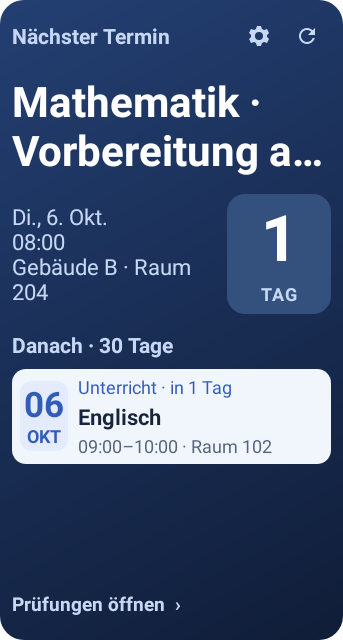
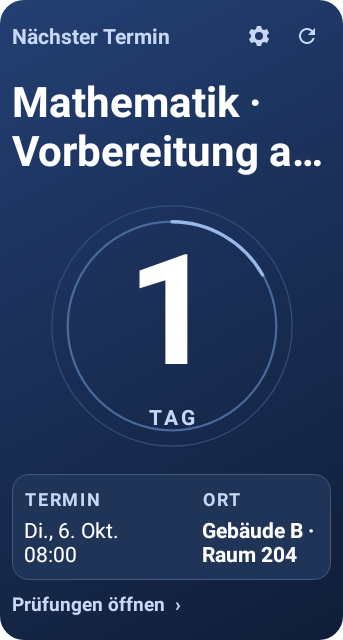
design: focus next-event widget and respect launcher orientation

Changed region(s): [[0.0292, 0.2812, 0.9621, 0.9062], [0.0292, 0.3125, 0.3499, 0.4688]]

diff --git a/app/src/test/java/com/andrin/examcountdown/widget/WidgetNativeTest.kt b/app/src/test/java/com/andrin/examcountdown/widget/WidgetNativeTest.kt
@@ -52,6 +52,10 @@ class WidgetNativeTest {
         val views = if (list) WidgetPresentation.list(context, 42, config, content, options(height, width), now)
         else WidgetPresentation.next(context, 42, config, content.firstOrNull(), options(height, width), now, content.drop(1))
         val view = views.apply(context, FrameLayout(context))
+        return measure(view, height, width)
+    }
+
+    private fun measure(view: View, height: Int, width: Int): View {
         val density = context.resources.displayMetrics.density
         view.measure(View.MeasureSpec.makeMeasureSpec((width * density).toInt(), View.MeasureSpec.EXACTLY),
             View.MeasureSpec.makeMeasureSpec((height * density).toInt(), View.MeasureSpec.EXACTLY))
@@ -189,21 +193,37 @@ class WidgetNativeTest {
         root.offsetDescendantRectToMyCoords(child, it)
     }
 
-    @Test fun tallNextWidgetPlacesFocusAtTopAndShowsRealFollowingEntriesInBothThemes() {
+    @Test fun tallNextWidgetShowsLargeCountdownAndSeparatesTimeAndLocationInBothThemes() {
         for (dark in listOf(false, true)) {
             RuntimeEnvironment.setQualifiers("w411dp-h891dp" + (if (dark) "-night" else "-notnight") + "-mdpi")
             val view = render(false, 600, 343) as ViewGroup
             val title = view.findViewById<TextView>(R.id.nextExamTitle)
             assertTrue("Focus still floats in the middle", bounds(view, title).top < 150)
             val rows = view.findViewById<ViewGroup>(R.id.nextUpcomingRows)
-            assertEquals(3, rows.childCount)
-            assertEquals("Englisch", rows.getChildAt(0).findViewById<TextView>(R.id.widgetRowTitle).text.toString())
-            assertEquals("Projektabgabe", rows.getChildAt(1).findViewById<TextView>(R.id.widgetRowTitle).text.toString())
-            assertEquals("Geschichte · Europa", rows.getChildAt(2).findViewById<TextView>(R.id.widgetRowTitle).text.toString())
-            assertTrue(bounds(view, rows.getChildAt(2)).bottom <= bounds(view, view.findViewById(R.id.nextWidgetOpenTimetable)).top)
-            rows.getChildAt(0).performClick()
-            assertEquals("timetable", shadowOf(RuntimeEnvironment.getApplication()).nextStartedActivity.getStringExtra(MainActivity.EXTRA_OPEN_TAB))
+            assertEquals(0, rows.childCount)
+            assertEquals(View.GONE, view.findViewById<View>(R.id.nextUpcomingArea).visibility)
+            val countdown = view.findViewById<TextView>(R.id.nextExamCountdown)
+            assertTrue("Countdown is still a small badge", countdown.textSize >= 80 * context.resources.displayMetrics.density)
+            assertTrue("Countdown clipped", countdown.layout.height <= countdown.height)
+            val unit = view.findViewById<TextView>(R.id.nextCountdownUnit)
+            assertEquals("TAG", unit.text.toString())
+            assertTrue("Countdown unit has no drawable height: ${unit.height}/${unit.layout?.height}, ${bounds(view, unit)}", unit.height > 0 && unit.height >= unit.layout.height)
+            assertTrue(bounds(view, unit).top >= bounds(view, countdown).bottom)
+            assertTrue(bounds(view, unit).bottom <= bounds(view, view.findViewById(R.id.nextCountdownBox)).bottom)
+            assertTrue(bounds(view, countdown).bottom <= bounds(view, view.findViewById(R.id.nextDetailsPanel)).top)
+            assertEquals("Raum 204", view.findViewById<TextView>(R.id.nextExamLocation).text.toString())
+            assertFalse(view.findViewById<TextView>(R.id.nextExamTime).text.contains("204"))
             screenshot(view, "widget-next-tall-${if (dark) "dark" else "light"}")
+            val extraTall = render(false, 800, 343) as ViewGroup
+            val extraRows = extraTall.findViewById<ViewGroup>(R.id.nextUpcomingRows)
+            assertEquals(3, extraRows.childCount)
+            assertEquals("Englisch", extraRows.getChildAt(0).findViewById<TextView>(R.id.widgetRowTitle).text.toString())
+            assertEquals("Projektabgabe", extraRows.getChildAt(1).findViewById<TextView>(R.id.widgetRowTitle).text.toString())
+            assertEquals("Geschichte · Europa", extraRows.getChildAt(2).findViewById<TextView>(R.id.widgetRowTitle).text.toString())
+            assertTrue(bounds(extraTall, extraRows.getChildAt(2)).bottom <= bounds(extraTall, extraTall.findViewById(R.id.nextWidgetOpenTimetable)).top)
+            extraRows.getChildAt(0).performClick()
+            assertEquals("timetable", shadowOf(RuntimeEnvironment.getApplication()).nextStartedActivity.getStringExtra(MainActivity.EXTRA_OPEN_TAB))
+            screenshot(extraTall, "widget-next-extra-tall-${if (dark) "dark" else "light"}")
         }
     }
 
@@ -228,7 +248,7 @@ class WidgetNativeTest {
             }
             screenshot(render(false, 640, 343, data = longItems), "widget-next-tall-font-${scale.toString().replace('.', '-')}")
         }
-        val room = render(false, 640, 343, data = longItems).findViewById<TextView>(R.id.nextExamTime)
+        val room = render(false, 640, 343, data = longItems).findViewById<TextView>(R.id.nextExamLocation)
         assertEquals("The large-font room text is truncated", 0, room.layout.getEllipsisCount(room.layout.lineCount - 1))
         assertTrue(room.text.contains("Raum 204"))
         assertNull(render(false, 600, 220).findViewById<View>(R.id.nextUpcomingRows))
@@ -243,14 +263,44 @@ class WidgetNativeTest {
         empty.performClick()
         assertEquals("events", shadowOf(RuntimeEnvironment.getApplication()).nextStartedActivity.getStringExtra(MainActivity.EXTRA_OPEN_TAB))
         screenshot(empty, "widget-next-tall-empty")
-        val single = render(false, 600, data = items.take(1))
+        val single = render(false, 800, data = items.take(1))
         assertEquals(View.VISIBLE, single.findViewById<View>(R.id.nextUpcomingEmpty).visibility)
         screenshot(single, "widget-next-tall-single")
         val hidden = render(false, 600, config = WidgetConfig(WidgetMode.AGENDA, showLocation = false, showCountdown = false))
         assertFalse(hidden.findViewById<TextView>(R.id.nextExamTime).text.contains("204"))
+        assertEquals(View.GONE, hidden.findViewById<View>(R.id.nextLocationSection).visibility)
         assertEquals(View.GONE, hidden.findViewById<View>(R.id.nextCountdownBox).visibility)
-        val rows = hidden.findViewById<ViewGroup>(R.id.nextUpcomingRows)
+        val extraTallHidden = render(false, 800, config = WidgetConfig(WidgetMode.AGENDA, showLocation = false, showCountdown = false))
+        val rows = extraTallHidden.findViewById<ViewGroup>(R.id.nextUpcomingRows)
         assertFalse(rows.getChildAt(0).findViewById<TextView>(R.id.widgetRowDetails).text.contains("102"))
         assertFalse(rows.getChildAt(0).findViewById<TextView>(R.id.widgetRowKind).text.contains("in "))
+    }
+
+    @Test fun launcherUsesActualPortraitHeightWhenMinimumHeightBelongsToLandscape() {
+        val options = Bundle().apply {
+            putInt(AppWidgetManager.OPTION_APPWIDGET_MIN_HEIGHT, 240)
+            putInt(AppWidgetManager.OPTION_APPWIDGET_MAX_HEIGHT, 600)
+            putInt(AppWidgetManager.OPTION_APPWIDGET_MIN_WIDTH, 343)
+            putInt(AppWidgetManager.OPTION_APPWIDGET_MAX_WIDTH, 600)
+        }
+        val example = items.first().copy(startsAtEpochMillis = now + 8 * 86_400_000L, endsAtEpochMillis = now + 8 * 86_400_000L)
+        val views = WidgetPresentation.nextForLauncher(context, 42, WidgetConfig(WidgetMode.AGENDA), listOf(example), options, now)
+        for (portrait in listOf(true, false)) {
+            val configuration = android.content.res.Configuration(context.resources.configuration).apply {
+                orientation = if (portrait) android.content.res.Configuration.ORIENTATION_PORTRAIT else android.content.res.Configuration.ORIENTATION_LANDSCAPE
+            }
+            val oriented = context.createConfigurationContext(configuration)
+            val view = measure(views.apply(oriented, FrameLayout(oriented)), if (portrait) 600 else 240, if (portrait) 343 else 600) as ViewGroup
+            assertEquals("Mathematik · Funktionen", view.findViewById<TextView>(R.id.nextExamTitle).text.toString())
+            assertEquals(portrait, view.findViewById<View>(R.id.nextFocusPoster) != null)
+            val counter = view.findViewById<TextView>(R.id.nextExamCountdown)
+            assertEquals("8", counter.text.toString())
+            assertEquals("TAGE", view.findViewById<TextView>(R.id.nextCountdownUnit).text.toString())
+            assertTrue(bounds(view, counter).bottom <= bounds(view, view.findViewById(R.id.nextWidgetOpenTimetable)).top)
+            assertTrue("Counter clipped after orientation change", counter.layout.height <= counter.height)
+            screenshot(view, "widget-next-launcher-${if (portrait) "portrait" else "landscape"}")
+            view.findViewById<View>(R.id.nextWidgetConfigure).performClick()
+            assertEquals(42, shadowOf(RuntimeEnvironment.getApplication()).nextStartedActivity.getIntExtra(AppWidgetManager.EXTRA_APPWIDGET_ID, -1))
+        }
     }
 }

diff --git a/app/src/main/java/com/andrin/examcountdown/widget/WidgetPresentation.kt b/app/src/main/java/com/andrin/examcountdown/widget/WidgetPresentation.kt
@@ -83,13 +83,37 @@ internal fun useTallNextWidget(options: Bundle, config: WidgetConfig, fontScale:
     !config.compact && options.getInt(AppWidgetManager.OPTION_APPWIDGET_MIN_WIDTH, 320) >= 260 &&
         widgetHeight(options, 240) >= 360 * fontScale.coerceAtLeast(1f)
 
-/** Leave room for two title lines, date/time/room, countdown, controls and footer. */
+/** Keep the next entry prominent; following rows only use space beyond the focus panel. */
 internal fun nextWidgetRowLimit(options: Bundle, config: WidgetConfig, fontScale: Float): Int =
     if (!useTallNextWidget(options, config, fontScale)) 0 else
-        ((widgetHeight(options, 240) - (220 * fontScale.coerceAtLeast(1f)).toInt() - 110) /
+        ((widgetHeight(options, 240) - (360 * fontScale.coerceAtLeast(1f)).toInt() - 200) /
             widgetRowHeight(false, fontScale)).coerceIn(0, 5)
 
+internal fun nextWidgetOrientations(options: Bundle): Pair<Bundle, Bundle> {
+    val minHeight = widgetHeight(options, 240)
+    val maxHeight = options.getInt(AppWidgetManager.OPTION_APPWIDGET_MAX_HEIGHT, minHeight).coerceAtLeast(minHeight)
+    val minWidth = options.getInt(AppWidgetManager.OPTION_APPWIDGET_MIN_WIDTH, 320).takeIf { it > 0 } ?: 320
+    val maxWidth = options.getInt(AppWidgetManager.OPTION_APPWIDGET_MAX_WIDTH, minWidth).coerceAtLeast(minWidth)
+    val landscape = Bundle(options).apply {
+        putInt(AppWidgetManager.OPTION_APPWIDGET_MIN_HEIGHT, minHeight)
+        putInt(AppWidgetManager.OPTION_APPWIDGET_MIN_WIDTH, maxWidth)
+    }
+    val portrait = Bundle(options).apply {
+        putInt(AppWidgetManager.OPTION_APPWIDGET_MIN_HEIGHT, maxHeight)
+        putInt(AppWidgetManager.OPTION_APPWIDGET_MIN_WIDTH, minWidth)
+    }
+    return landscape to portrait
+}
+
 internal object WidgetPresentation {
+    fun nextForLauncher(context: Context, id: Int, config: WidgetConfig, items: List<WidgetTimelineItem>, options: Bundle, now: Long): RemoteViews {
+        val (landscape, portrait) = nextWidgetOrientations(options)
+        return RemoteViews(
+            next(context, id, config, items.firstOrNull(), landscape, now, items.drop(1)),
+            next(context, id, config, items.firstOrNull(), portrait, now, items.drop(1))
+        )
+    }
+
     fun next(context: Context, id: Int, config: WidgetConfig, item: WidgetTimelineItem?, options: Bundle, now: Long,
              following: List<WidgetTimelineItem> = emptyList()): RemoteViews {
         val height = widgetHeight(options, 240)
@@ -109,11 +133,15 @@ internal object WidgetPresentation {
             if (tall) {
                 val date = DateTimeFormatter.ofPattern("EEE, d. MMM", Locale.GERMANY)
                     .format(Instant.ofEpochMilli(it.startsAtEpochMillis).atZone(widgetZone))
-                listOfNotNull(date, widgetTimeDetails(it, config.copy(showLocation = false)),
-                    it.location?.trim()?.takeIf { location -> config.showLocation && location.isNotEmpty() }).joinToString("\n")
+                listOf(date, widgetTimeDetails(it, config.copy(showLocation = false))).joinToString("\n")
             } else widgetDetails(it, config)
         } ?: "App öffnen · Zeitraum oder Kalender prüfen")
         views.setInt(R.id.nextExamTime, "setMaxLines", if (tall) { if (fontScale > 1.2f) 4 else 3 } else if (compact) 1 else 2)
+        if (tall) {
+            val location = item?.location?.trim()?.takeIf { config.showLocation && it.isNotEmpty() }
+            views.setTextViewText(R.id.nextExamLocation, location ?: "")
+            views.setViewVisibility(R.id.nextLocationSection, if (location != null) View.VISIBLE else View.GONE)
+        }
         val showCountdown = item != null && config.showCountdown && height >= 180 * fontScale
         views.setTextViewText(R.id.nextExamCountdown, item?.let { if (compact) widgetStatus(it, now) else widgetCountdown(it, now).value } ?: "")
         views.setViewVisibility(R.id.nextExamCountdown, if (showCountdown) View.VISIBLE else View.GONE)
@@ -121,8 +149,11 @@ internal object WidgetPresentation {
             views.setTextViewText(R.id.nextCountdownUnit, item?.let { widgetCountdown(it, now).unit } ?: "")
             views.setViewVisibility(R.id.nextCountdownBox, if (showCountdown) View.VISIBLE else View.GONE)
             views.setContentDescription(R.id.nextCountdownBox, item?.let { widgetStatus(it, now) })
+            val numberSize = if (tall) {
+                ((height - 160 - 150 * fontScale) / (1.5f * fontScale)).coerceIn(28f, 96f)
+            } else 40f
             views.setTextViewTextSize(R.id.nextExamCountdown, android.util.TypedValue.COMPLEX_UNIT_SP,
-                if (item != null && widgetCountdown(item, now).value.length > 2) 25f else if (tall && fontScale <= 1.2f) 48f else 40f)
+                if (item != null && widgetCountdown(item, now).value.length > 2) { if (tall) minOf(numberSize, 40f) else 25f } else numberSize)
         }
         if (tall) {
             val limit = nextWidgetRowLimit(options, config, fontScale)
@@ -134,6 +165,7 @@ internal object WidgetPresentation {
             views.setViewVisibility(R.id.nextUpcomingHeader, if (limit > 0) View.VISIBLE else View.GONE)
             views.setViewVisibility(R.id.nextUpcomingEmpty,
                 if (limit > 0 && following.none { it.id != item?.id }) View.VISIBLE else View.GONE)
+            views.setViewVisibility(R.id.nextUpcomingArea, if (limit > 0) View.VISIBLE else View.GONE)
         }
         views.setViewVisibility(R.id.nextWidgetOpenTimetable, if (height >= 240 * fontScale && !config.compact) View.VISIBLE else View.GONE)
         bindActions(context, views, id, config, false)

diff --git a/app/src/main/java/com/andrin/examcountdown/widget/NextExamWidgetProvider.kt b/app/src/main/java/com/andrin/examcountdown/widget/NextExamWidgetProvider.kt
@@ -34,10 +34,11 @@ class NextExamWidgetProvider : AppWidgetProvider() {
             appWidgetIds.forEach { id ->
                 val config = WidgetPreferences.readConfig(context, id)
                 val options = appWidgetManager.getAppWidgetOptions(id)
-                val limit = nextWidgetRowLimit(options, config, context.resources.configuration.fontScale)
+                val (landscape, portrait) = nextWidgetOrientations(options)
+                val scale = context.resources.configuration.fontScale
+                val limit = maxOf(nextWidgetRowLimit(landscape, config, scale), nextWidgetRowLimit(portrait, config, scale))
                 val items = WidgetContentLoader.loadUpcomingItems(context, id, 1 + limit, nextOnly = true)
-                val views = WidgetPresentation.next(context, id, config, items.firstOrNull(), options,
-                    System.currentTimeMillis(), items.drop(1))
+                val views = WidgetPresentation.nextForLauncher(context, id, config, items, options, System.currentTimeMillis())
                 appWidgetManager.updateAppWidget(id, views)
             }
         }

diff --git a/app/src/test/java/com/andrin/examcountdown/widget/WidgetProviderIntegrationTest.kt b/app/src/test/java/com/andrin/examcountdown/widget/WidgetProviderIntegrationTest.kt
@@ -47,8 +47,10 @@ class WidgetProviderIntegrationTest {
             assertEquals("204", loaded.first().location)
             assertTrue(loaded.last().isAllDay)
             val tallOptions = Bundle().apply {
-                putInt(AppWidgetManager.OPTION_APPWIDGET_MIN_HEIGHT, 600)
+                putInt(AppWidgetManager.OPTION_APPWIDGET_MIN_HEIGHT, 240)
+                putInt(AppWidgetManager.OPTION_APPWIDGET_MAX_HEIGHT, 800)
                 putInt(AppWidgetManager.OPTION_APPWIDGET_MIN_WIDTH, 343)
+                putInt(AppWidgetManager.OPTION_APPWIDGET_MAX_WIDTH, 600)
             }
             manager.updateAppWidgetOptions(nextId, tallOptions)
             NextExamWidgetProvider().onAppWidgetOptionsChanged(context, manager, nextId, tallOptions)

diff --git a/docs/releases/1.6.15-beta.5.md b/docs/releases/1.6.15-beta.5.md
@@ -1,0 +1,37 @@
+# Prüfungs-Countdown 1.6.15-beta.5 – Nächster Termin
+
+Diese Revision verbessert gezielt das Countdown-Widget. Der große Countdown mit
+dekorativem Ring nutzt die hohe Fläche; der Titel steht darüber. Datum und Uhrzeit
+sowie Ort stehen in getrennten Feldern darunter. Zahnrad, Aktualisieren und
+Navigation bleiben erreichbar. Schrift und Anordnung passen sich der Größe an.
+Weitere Einträge der bestehenden hohen Ansicht werden nur bei genügend Platz
+gezeigt. Die Terminliste, App-Einstellungen, Filter, Daten, Skills und Plugins
+werden durch diese Revision nicht verändert.
+
+Der Provider übergibt passende RemoteViews für Hoch- und Querformat. Dadurch
+aktiviert eine kleine MIN_HEIGHT des Querformats im Hochformat nicht die kleine
+Ansicht: dort zählen MIN_WIDTH und MAX_HEIGHT. Ein nativer Regressionstest prüft
+beide Android-Orientierungen mit denselben Launcher-Optionen. Der lokale
+DataStore-Integrationstest prüft den Provider ebenfalls mit diesen Größen.
+
+## Handytest
+
+`ExamCountdown-test-v1.6.15-beta.5.apk`, Android 8 oder neuer, Code 28,
+Paket `com.andrin.examcountdown.preview`, mit dem bisherigen Android-Testschlüssel
+signiert. Die APK kann beta.1/2/3/4 mit den bestehenden Test-App-Daten aktualisieren.
+
+APK installieren, anschließend das Widget über seinen Aktualisieren-Knopf laden.
+Die große Darstellung erscheint bei hoher Fläche und ausgeschalteter kompakter
+Ansicht. Größe bei Bedarf durch langes Drücken und Ziehen der Ränder anpassen.
+
+## Nachweise
+
+118 Tests bestanden, keine Fehler oder Skips. Debug-/Preview-Lint: jeweils
+0 Fehler und 32 Warnungen. Preview-APK-Build sowie Signatur- und Metadatenprüfung
+bestanden. [Native Ansicht](../screenshots/widget-next-launcher-portrait.png) mit
+synthetischen Beispieldaten; [Details und weitere Größen](../widget-overhaul.md).
+Die neue Version ist noch nicht auf einem echten Handy geprüft. Persönliche
+Handy-Screenshots wurden nicht in die Quellen oder Nachweise aufgenommen.
+
+GitHub-Veröffentlichung bleibt durch fehlenden Schreibzugriff blockiert.
+APK, Quellen und Prüfnachweise stehen in Codex Cloud bereit. Kein Merge.

diff --git a/README.md b/README.md
@@ -28,7 +28,7 @@ Android-App für Prüfungen, Stundenplan, Events, Erinnerungen, Widgets und Note
 
 Die Preview-APK liegt unter `.build/app/outputs/apk/preview/app-preview.apk`.
 Sie heißt „Prüfungs-Countdown Test“, verwendet `com.andrin.examcountdown.preview`
-und die Version `1.6.15-beta.4` (Code 27). Android 8 oder neuer ist erforderlich.
+und die Version `1.6.15-beta.5` (Code 28). Android 8 oder neuer ist erforderlich.
 Die eigene Paketkennung ermöglicht eine Installation neben der bisherigen App;
 Kalender, PIN und Daten sind getrennt. Die Testversion ist mit dem Android-Testschlüssel
 signiert und ersetzt keine mit dem Produktionsschlüssel signierte Installation.
@@ -36,10 +36,10 @@ signiert und ersetzt keine mit dem Produktionsschlüssel signierte Installation.
 APK auf dem Handy herunterladen und öffnen. Falls Android danach fragt, für den
 verwendeten Browser die Installation aus dieser Quelle erlauben. In der Test-App
 anschließend den Kalender verbinden oder über `Optionen -> Daten` eine bestehende
-App-Sicherung importieren. Bestehende App-Daten werden nicht automatisch übernommen. Diese APK kann die vorherige
-Test-APKs 1.6.15-beta.1/2/3 mit demselben Testschlüssel aktualisieren; die Test-App-Daten bleiben erhalten.
+App-Sicherung importieren. Bestehende App-Daten werden nicht automatisch übernommen. Diese APK kann die vorherigen
+Test-APKs 1.6.15-beta.1/2/3/4 mit demselben Testschlüssel aktualisieren; die Test-App-Daten bleiben erhalten.
 
-[Widget-Vorschauen und Prüfumfang](docs/widget-overhaul.md) · [Testversion 1.6.15-beta.4](docs/releases/1.6.15-beta.4.md)
+[Widget-Vorschauen und Prüfumfang](docs/widget-overhaul.md) · [Testversion 1.6.15-beta.5](docs/releases/1.6.15-beta.5.md)
 
 ## Ersteinrichtung
 1. App starten.

diff --git a/docs/study-world-overhaul.md b/docs/study-world-overhaul.md
@@ -88,11 +88,11 @@ zusätzlich nötig; synthetische Oberflächentests beweisen keine externe Anbind
 ### Tatsächlich ausgeführt am 03.10.2026
 
 In Codex Cloud mit JDK 17, Android SDK 34 und Gradle 8.2:
-**117 Tests bestanden, keine Fehler oder Skips**. Kotlin-Kompilierung,
+**118 Tests bestanden, keine Fehler oder Skips**. Kotlin-Kompilierung,
 Android-Lint und Preview-APK-Build erfolgreich; `git diff --check` bestanden.
 Die Abdeckung umfasst die 60 ursprünglichen Tests, sieben Filter-/Zahleneingabe-
-Regressionen, 19 Compose-Tests, fünf Stundenplan-/Agenda-Regressionen sowie 26 Widget-Regressionen.
-Debug- und Preview-Lint: je 33 Warnungen, keine Fehler. APK-Build und Signaturprüfung bestanden.
+Regressionen, 19 Compose-Tests, fünf Stundenplan-/Agenda-Regressionen sowie 27 Widget-Regressionen.
+Debug- und Preview-Lint: je 32 Warnungen, keine Fehler. APK-Build und Signaturprüfung bestanden.
 Die Widget-Ansichten, Konfiguration und der lokale Kalenderpfad wurden ebenfalls geprüft;
 [Widget-Überarbeitung](widget-overhaul.md) beschreibt die Abnahme und ihre Grenzen.
 
